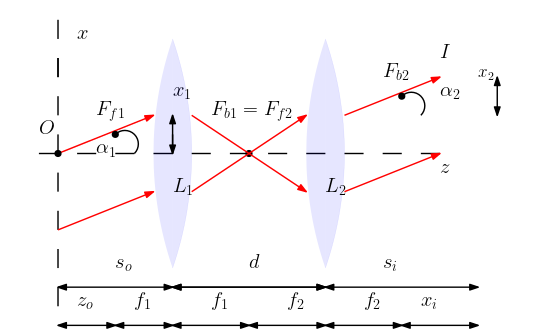
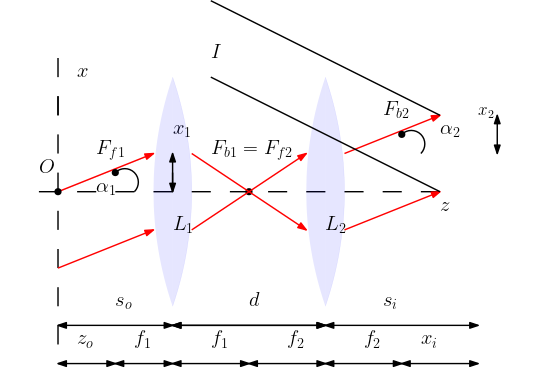
hw2 submission

diff --git a/hw02sol.tex b/hw02sol.tex
@@ -226,7 +226,7 @@ The ray transfer matrix for the $L_1$, $L_2$ telescope system is
     \alpha_{1}  \\
     x_1
 \end{bmatrix}
-\end{equation}\\
+\end{equation}
 
 
 \textbf{Q\&A} What are the angular and lateral magnifications?\\
@@ -235,7 +235,7 @@ The angular magnification is defined as $M_A = \frac{-s_o}{s_1}$ and the lateral
 
 \textbf{Q\&A} How is the image (virtual, real), what about the object? (Please point them out)\\
 
-Object $O$ and image $I$ are spatially indicated in figure \ref{fig:2_1}. The collimated rays are incident from $\infty$ at object $O$ and the collimated rays create a real image at $\infty$ at $I$. 
+At great object $O$ distances the incident rays are effectively parallel and the object is real. The image $I$ is spatially indicated in figure \ref{fig:2_1} and the final image is virtual, enlarged, and inverted. 
 
 
 \newpage
@@ -253,14 +253,24 @@ The optical instrument shown below consists of 2 lenses $L_1$, $L_3$ and an aper
 
 ... must have incident object $O$ at finite distance $s_0$. The Huygens eyepiece ($L_3$) also know as the "ocular" is a magnifier meant to look at the intermediate image formed by the preceding optical instrument. The eye looks into the eyepiece, and the eyepiece "looks" into the optical system, in this case a compound microscope with an aperture (field stop) $S_2$ and an Objective lens $L_1$.\\
 
-The objective lens forms a real, inverted magnified image of the object. The image resides in space on the plane of the field stop of the eyepiece and has to be small enough to fit inside the barrel of the device, denoted by $B=160mm$. Rays diverging from each point of this imsage will emerge from the eye-lens (which in this simple case is the eyepiece itself).\\ 
+The objective lens forms a real, inverted magnified image of the object. The image resides in space on the plane of the field stop of the eyepiece and has to be small enough to fit inside the barrel of the device, denoted by $B=160mm$. The lateral magnification of the objective lens requires that $\frac{h_i}{h_0} = \frac{-f}{x_0} = -\frac{x_i}{f} \because$ Newton's Formula states that $x_o x_i = f^2$. Lateral magnification of the Objective lens also defines that $\frac{h_i}{h_0} = -\frac{s_i}{s_o}$ which when combined form the Image Condition
+
+\begin{equation}
+\frac{s_i}{s_o} = \frac{f}{x_o} = \frac{f}{s_o - x_o} \Rightarrow \frac{1}{s_o} \frac{1}{s_i} = \frac{1}{f} \Rightarrow s_o = \frac{10mm}{170mm} = \SI{58.824}{\mu \meter} 
+\end{equation}
+
+
+If the object is placed \SI{58.824}{\mu \meter} away from the objective lens, the image formed on the aperture will contain Rays diverging from each point of this image and will emerge from the eye-lens (which in this simple case is the eyepiece itself).\\ 
+
 
 Ideally this should produce a virtual image at $\infty$ such that the Magnification is defined as $MP=d_0P$ so that the final image is viewed with a relaxed (unaccommodated) eye, and so as to center the exit pupil (eye point) where the observer's eye is placed at $10mm$ (eye relief) from the instrument.\\
 
-
+\fi
 
 \textbf{Q\&A} What is the instrument use and what is the magnifying power? \textbf{Hint:} small object viewed by an eye.\\
 
-The instrument is a rudimentary compound microscope and the Magnification power of the entire system is the product of the transverse linear magnification of the objective $M_T$, and the angular magnification of the eyepiece, $M_A$, forming the equality $M = M_{To} M_{Ae} = \frac{-x_i}{f_o} \frac{x_o}{f_e} = \frac{-B}{f_1} \frac{?}{f_3} = \frac{-160}{10} \frac{250}{20} = 200$. \textbf{What is the standard near point}. The objective magnifies the object and brings it up in the form of a real image, where it can be examined as if through a magnifying glass.  
+The instrument is a rudimentary compound microscope and the Magnification power of the entire system is the product of the transverse linear magnification of the objective $M_T$, and the angular magnification of the eyepiece, $M_A$, forming the equality $M = M_{To} M_{Ae} = \frac{-x_i}{f_o} \frac{x_o}{f_e} = \frac{-B}{f_1} \frac{?}{f_3} = \frac{-160}{10} \frac{250}{20} = 200$. The objective magnifies the object and brings it up in the form of a real image, where it can be examined as if through a magnifying glass.
+
+%\textbf{What is the standard near point}. 
 
 \end{document}
